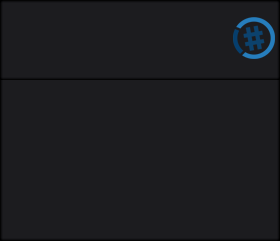
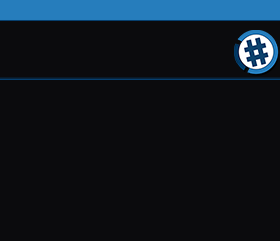
DZA: New Tracker sprites by blacky Kreygasm.

Changed region(s): [[0.0, 0.0, 1.0, 0.3485]]

diff --git a/DZAwarenessAIO/Utility/HudUtility/HudDisplay.cs b/DZAwarenessAIO/Utility/HudUtility/HudDisplay.cs
@@ -131,12 +131,13 @@ namespace DZAwarenessAIO.Utility.HudUtility
                 HudVariables.IsDragging = false;
             }
 
+
             if (args.Msg == (uint) WindowsMessages.WM_LBUTTONUP)
             {
                 if (
                     Utils.GetCursorPos()
-                        .Distance(new Vector2(HudVariables.CurrentPosition.X + HudVariables.SpriteWidth - 15,
-                            HudVariables.CurrentPosition.Y + HudVariables.CroppedHeight - 15)) < 7)
+                        .Distance(new Vector2(HudVariables.CurrentPosition.X + HudVariables.SpriteWidth - 15 + (Resources.Expand.Width * 0.7f) / 2f,
+                            HudVariables.CurrentPosition.Y + 3 + (Resources.Expand.Height * 0.7f) / 2f)) < Resources.Expand.Width * 0.7f / 2f)
                 {
                     if (HudVariables.CurrentStatus == SpriteStatus.Shrinked)
                     {
@@ -146,7 +147,7 @@ namespace DZAwarenessAIO.Utility.HudUtility
                         HudVariables.ExpandShrinkButton.Remove();
                         HudVariables.ExpandShrinkButton = new Render.Sprite(Resources.Shrink, HudVariables.CurrentPosition)
                         {
-                            PositionUpdate = () => new Vector2(HudVariables.CurrentPosition.X + HudVariables.SpriteWidth - 20, HudVariables.CurrentPosition.Y + HudVariables.CroppedHeight - 20),
+                            PositionUpdate = () => new Vector2(HudVariables.CurrentPosition.X + HudVariables.SpriteWidth - 15, HudVariables.CurrentPosition.Y + 3),
                             Scale = new Vector2(0.7f, 0.7f),
                             VisibleCondition = delegate { return HudVariables.ShouldBeVisible; }
                         };
@@ -161,7 +162,7 @@ namespace DZAwarenessAIO.Utility.HudUtility
                         HudVariables.ExpandShrinkButton.Remove();
                         HudVariables.ExpandShrinkButton = new Render.Sprite(Resources.Expand, HudVariables.CurrentPosition)
                         {
-                            PositionUpdate = () => new Vector2(HudVariables.CurrentPosition.X + HudVariables.SpriteWidth - 20, HudVariables.CurrentPosition.Y + HudVariables.CroppedHeight - 20),
+                            PositionUpdate = () => new Vector2(HudVariables.CurrentPosition.X + HudVariables.SpriteWidth - 15, HudVariables.CurrentPosition.Y + 3),
                             Scale = new Vector2(0.7f, 0.7f),
                             VisibleCondition = delegate { return HudVariables.ShouldBeVisible; }
                         };
@@ -195,7 +196,7 @@ namespace DZAwarenessAIO.Utility.HudUtility
 
                 HudVariables.ExpandShrinkButton = new Render.Sprite(Resources.Expand, HudVariables.CurrentPosition)
                 {
-                    PositionUpdate = () => new Vector2(HudVariables.CurrentPosition.X + HudVariables.SpriteWidth - 20, HudVariables.CurrentPosition.Y + HudVariables.CroppedHeight - 20),
+                    PositionUpdate = () => new Vector2(HudVariables.CurrentPosition.X + HudVariables.SpriteWidth - 15, HudVariables.CurrentPosition.Y + 3),
                     Scale = new Vector2(0.7f, 0.7f),
                     VisibleCondition = delegate { return HudVariables.ShouldBeVisible; }
                 };

diff --git a/DZAwarenessAIO/Utility/HudUtility/ImageLoader.cs b/DZAwarenessAIO/Utility/HudUtility/ImageLoader.cs
@@ -65,7 +65,7 @@ namespace DZAwarenessAIO.Utility.HudUtility
             {
                 var sprite = hero.Value.HeroSprite;
                 var circlePosition = new Vector2(
-                        HudVariables.CurrentPosition.X + 15 + (sprite.Scale.X * (29 + (sprite.Width))) * k +
+                        HudVariables.CurrentPosition.X + 9 + (sprite.Scale.X * (29 + (sprite.Width))) * k +
                         (sprite.Width * sprite.Scale.X) * (k) - (sprite.Width * sprite.Scale.X) / 2f,
                         HudVariables.CurrentPosition.Y + HudVariables.CroppedHeight - sprite.Height - 6); ;
                 sprite.Position = circlePosition;
